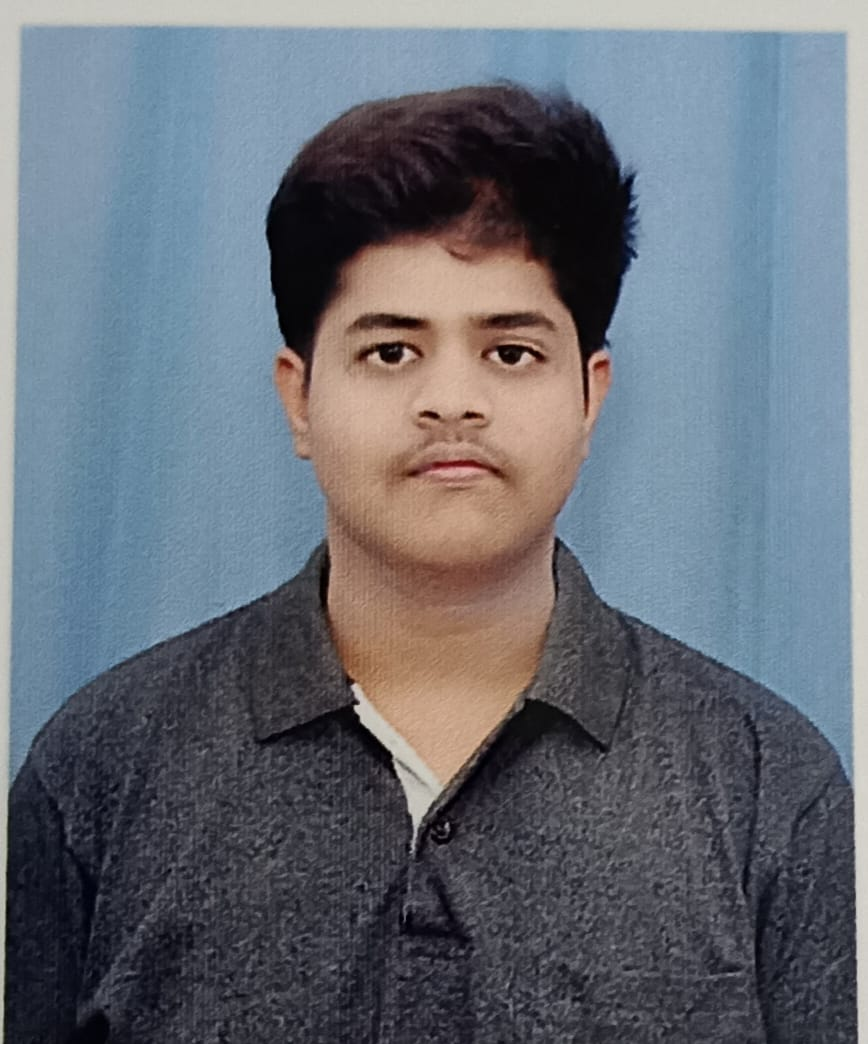
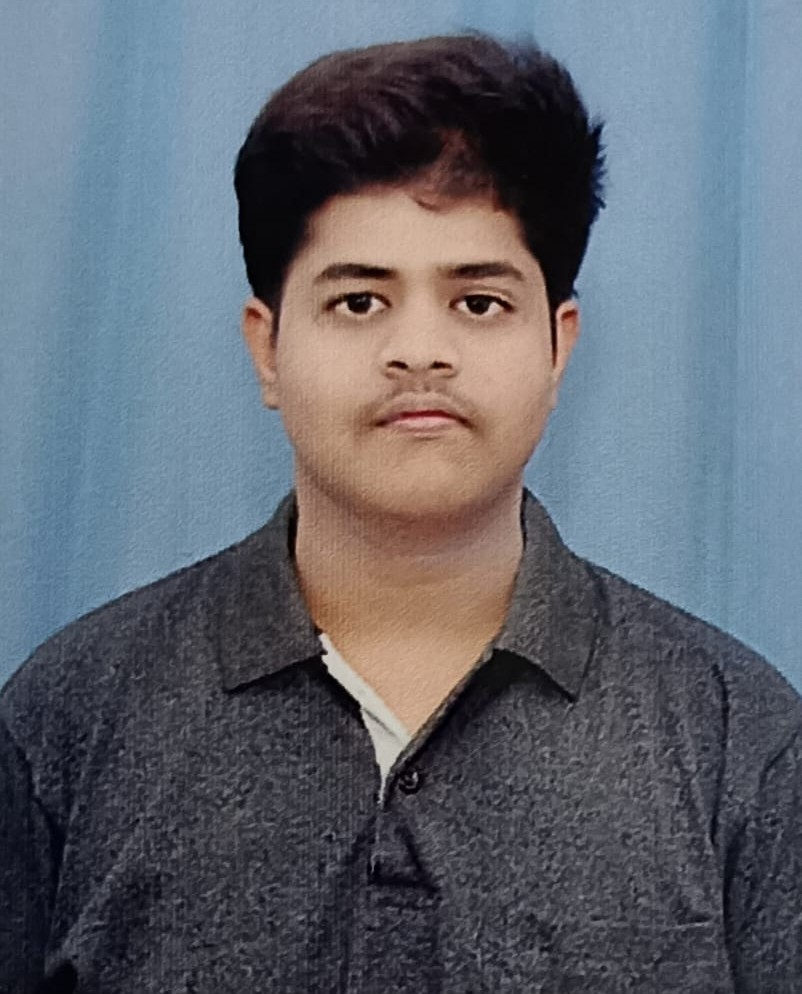
updated

diff --git a/index.html b/index.html
@@ -79,7 +79,7 @@
                 <div class="swiper-slide home-slide">
                     <div class="HomeContent">
                         <h1>Hi! I'm <span class="stylized-name">Rohith Venkat </span>,</h1>
-                        <h2>A <span class="proffesions">UI/UX Designer</span></h2>
+                        <h2><span class="proffesions"></span></h2>
                         <p class="heroline">This is my portfolio</p>
                         <div class="buttonGroup">
                             <li onclick="Navigate(1)">
@@ -116,7 +116,7 @@ Here you can see all my achievements and experiences
                             <li><span>Experience:</span> Worked on multiple group projects, now showcased on my GitHub — focused on software development, collaboration, and real-world problem solving</li>
                             <li><span>Country:</span> India</li>
                            
-                            <li><span>My projects :</span><a href="https://github.com/RohitVenkatMutyala/"  target="_blank"     style="text-decoration: none;background-color: #2e7d32;padding: 0.3em; border-radius: 9%;color: white;">Github</a></li>
+                          
                             <li><span>Age</span>:19</li>
                             <li><span>Phone</span>:6300851811</li>
                            
@@ -259,8 +259,8 @@ Here you can see all my achievements and experiences
                                 
                             </div>
                         </h2>
-                        <input type="text" id="user_name" name="user_name" placeholder="Name" >
-                        <input type="email" id="user_email" name="user_email" placeholder="Email" >
+                        <input type="text" id="user_name" name="user_name" placeholder="Name" style="display: none;" >
+                        <input type="email" id="user_email" name="user_email" placeholder="Email"  style="display: none;">
                         
                         <textarea rows="10" id="message" name="message" placeholder="Type your Message here in a proper pattern..." required></textarea>
                         <button type="submit" class="primary">Send</button>
